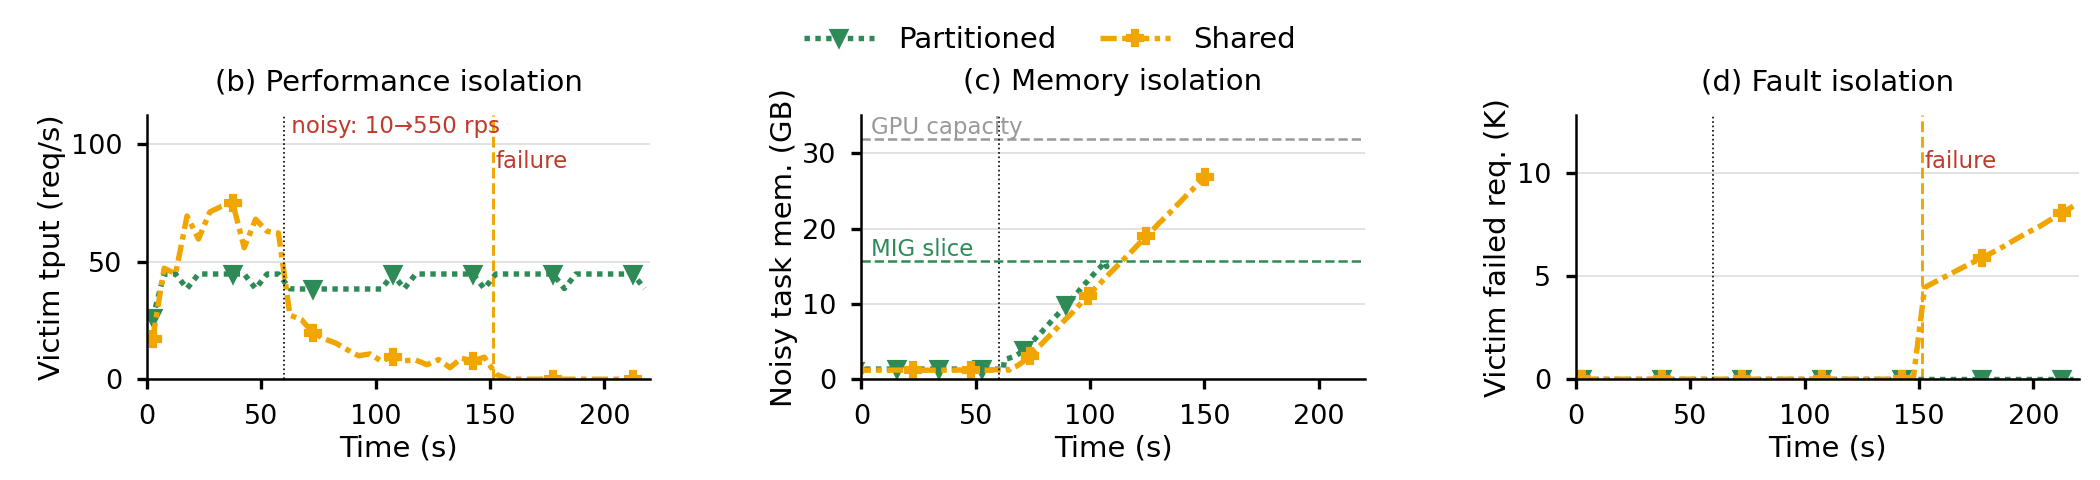
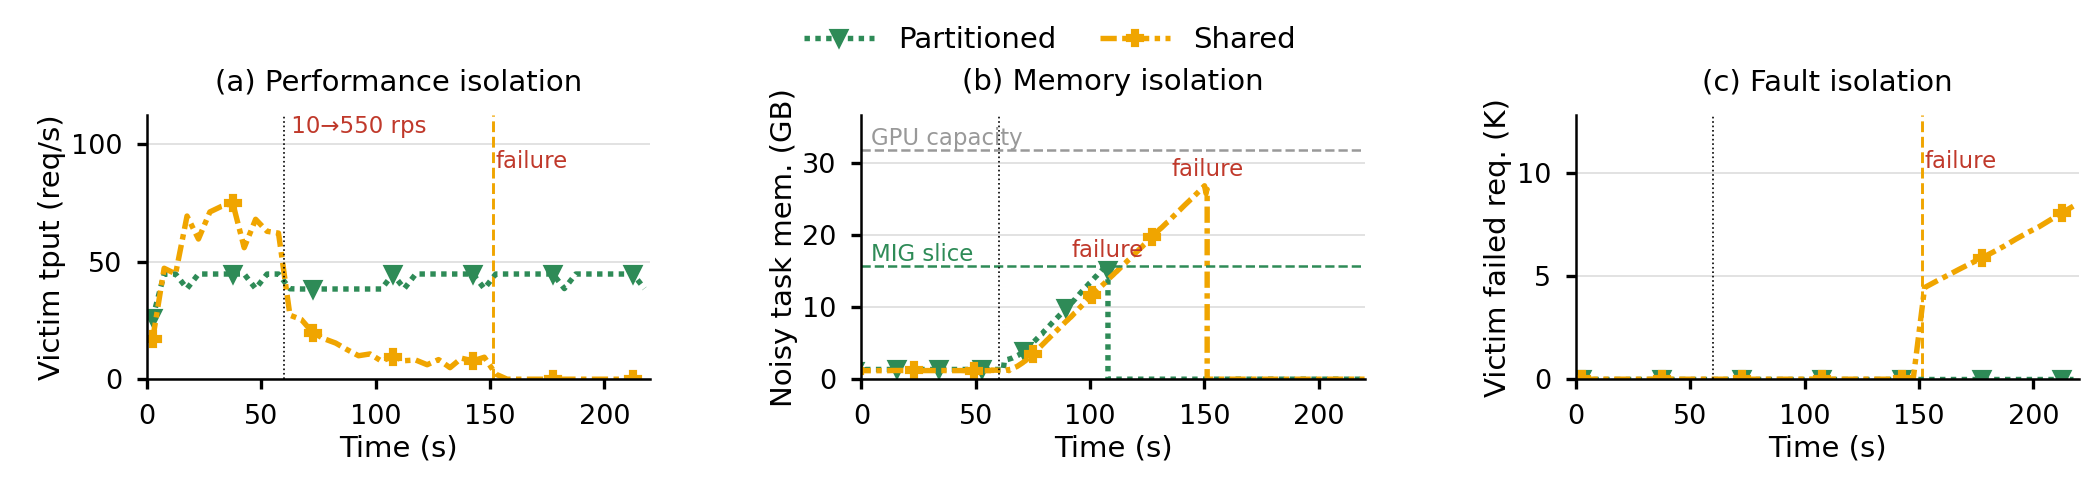
plotting code and different plotting way

diff --git a/serving/experiments/motivation2/plot.py b/serving/experiments/motivation2/plot.py
@@ -143,7 +143,7 @@ def noisy_memory_gb(ev: list, s: dict) -> tuple:
 # A request lost to a failure: a CUDA OOM error, or its server (process) gone
 # after one (the server exits on OOM): the stream broke, or the front end
 # reports the task's / backbone's process down.
-FAILURE_CODES = ("out of memory", "UNAVAILABLE", "STREAM_ENDED", "CANCELLED",
+FAILURE_CODES = ("out of memory", "UNAVAILABLE", "INTERNAL", "STREAM_ENDED", "CANCELLED",
                  "task_down", "backbone_down")
 
 
@@ -378,6 +378,7 @@ def draw_figure(summ: dict, conds: list, iso_dir: Path, out: Path, thr_bin: floa
         # panel marks only failures of the task it shows.
         ooms_b: dict = {}
         ooms_v: dict = {}
+        mem_fail: list = []                   # (t, GB) where B's server crashed
         for c in conds:
             s, key = summ[c], STYLE_OF[c]
             ev = load_events(iso_dir / f"events_{c}.csv")
@@ -400,7 +401,13 @@ def draw_figure(summ: dict, conds: list, iso_dir: Path, out: Path, thr_bin: floa
             # A run with no memory numbers (process mode before stats): no line,
             # rather than one at 0.
             if peak > 0:
-                t, yb = drop_at_crash(t, yb, first_crash(ev, B), dur)
+                t_crash = first_crash(ev, B)
+                if t_crash is not None:
+                    # Memory panel: "failure" written at the top of the peak.
+                    ok = np.isfinite(yb) & (np.asarray(t) < t_crash)
+                    if ok.any():
+                        mem_fail.append((t_crash, float(np.asarray(yb)[ok][-1])))
+                t, yb = drop_at_crash(t, yb, t_crash, dur)
                 ax_m.plot(t, yb, **style(key, len(t)))
             for tasks, into in ((B, ooms_b), (V, ooms_v)):
                 t_oom = first_oom(ev, tasks)
@@ -422,7 +429,7 @@ def draw_figure(summ: dict, conds: list, iso_dir: Path, out: Path, thr_bin: floa
         # (c) capacity lines (from the summary; absent if nvidia-smi / NVML had none).
         cap = (s0.get("gpu_total_mb") or summ.get("shared", {}).get("gpu_total_mb") or 0) / 1024
         sl = (summ.get("mig", {}).get("mig_slice_mb") or 0) / 1024
-        top = max(max_mem, cap, sl) * (HEADROOM if ooms_b else 1.1) or 1.0
+        top = max(max_mem, cap, sl) * 1.15 or 1.0
         if cap:
             ax_m.axhline(cap, color=mp.CAPACITY_COLOR, lw=0.6, ls="--")
             ax_m.text(4, cap, "GPU capacity", color=mp.CAPACITY_COLOR, fontsize=5.5, va="bottom")
@@ -444,8 +451,11 @@ def draw_figure(summ: dict, conds: list, iso_dir: Path, out: Path, thr_bin: floa
                       (ax_m, "(c) Memory isolation", "Noisy task mem. (GB)"),
                       (ax_f, "(d) Fault isolation",
                        "Victim failed req." + (" (K)" if k else "")))
-        oom_of = {ax_n: ooms_b, ax_m: ooms_b, ax_p: ooms_v, ax_f: ooms_v}
+        # Memory panel: no failure lines, the word at the peak instead (below).
+        oom_of = {ax_n: ooms_b, ax_m: {}, ax_p: ooms_v, ax_f: ooms_v}
         for ax, title, yl in panels:
+            if eff_csv is None:             # no (a): the time panels start at (a)
+                title = f"({chr(ord(title[1]) - 1)}){title[3:]}"
             ax.set_title(title)
             ax.set_ylabel(yl, labelpad=1)
             ax.set_xlabel("Time (s)", labelpad=1)
@@ -454,13 +464,16 @@ def draw_figure(summ: dict, conds: list, iso_dir: Path, out: Path, thr_bin: floa
             ax.yaxis.grid(True, color="#dddddd", lw=0.4)
             ax.set_axisbelow(True)
             mark_ooms(ax, oom_of[ax], dur)
+        for t_c, y_c in mem_fail:
+            ax_m.text(t_c, y_c + 0.03 * top, "failure", color=RED, fontsize=5.5,
+                      ha="center", va="bottom")
         # The noisy ramp note goes on the first time panel only: the victim
         # panel in the isolation layout, the noisy task's panel in "tput".
         if ax_n is None:
-            ax_p.text(ramp, ax_p.get_ylim()[1], f" noisy: {s0['rate_b']:g}→{s0['rate_b_max']:g} rps",
+            ax_p.text(ramp, ax_p.get_ylim()[1], f" {s0['rate_b']:g}→{s0['rate_b_max']:g} rps",
                       color=RED, fontsize=5.5, va="top")
         else:
-            ax_n.text(ramp, ax_n.get_ylim()[1], f" noisy: {s0['rate_b']:g}→{s0['rate_b_max']:g} rps",
+            ax_n.text(ramp, ax_n.get_ylim()[1], f" {s0['rate_b']:g}→{s0['rate_b_max']:g} rps",
                       color=RED, fontsize=5.5, va="top")
 
         handles = [Line2D([], [], **{**style(STYLE_OF[c], 1), "markevery": None}, label=LABELS[c])
